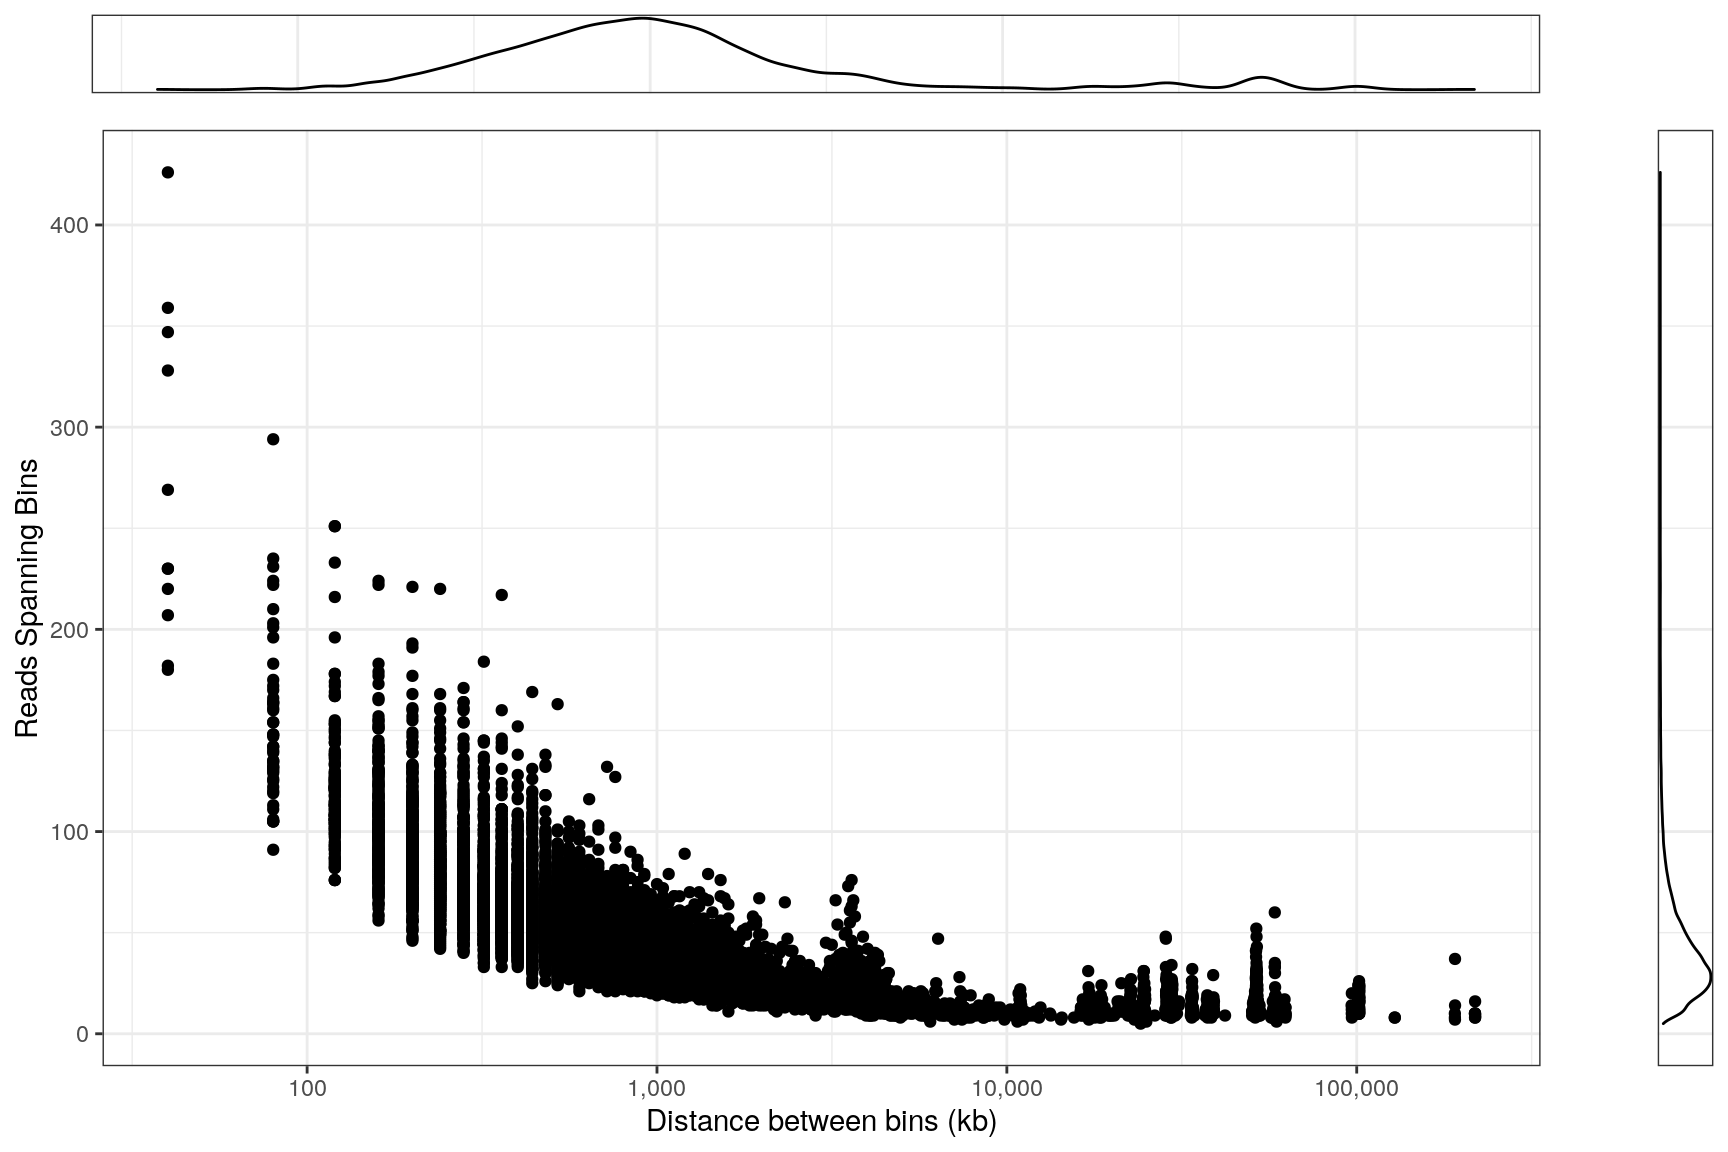
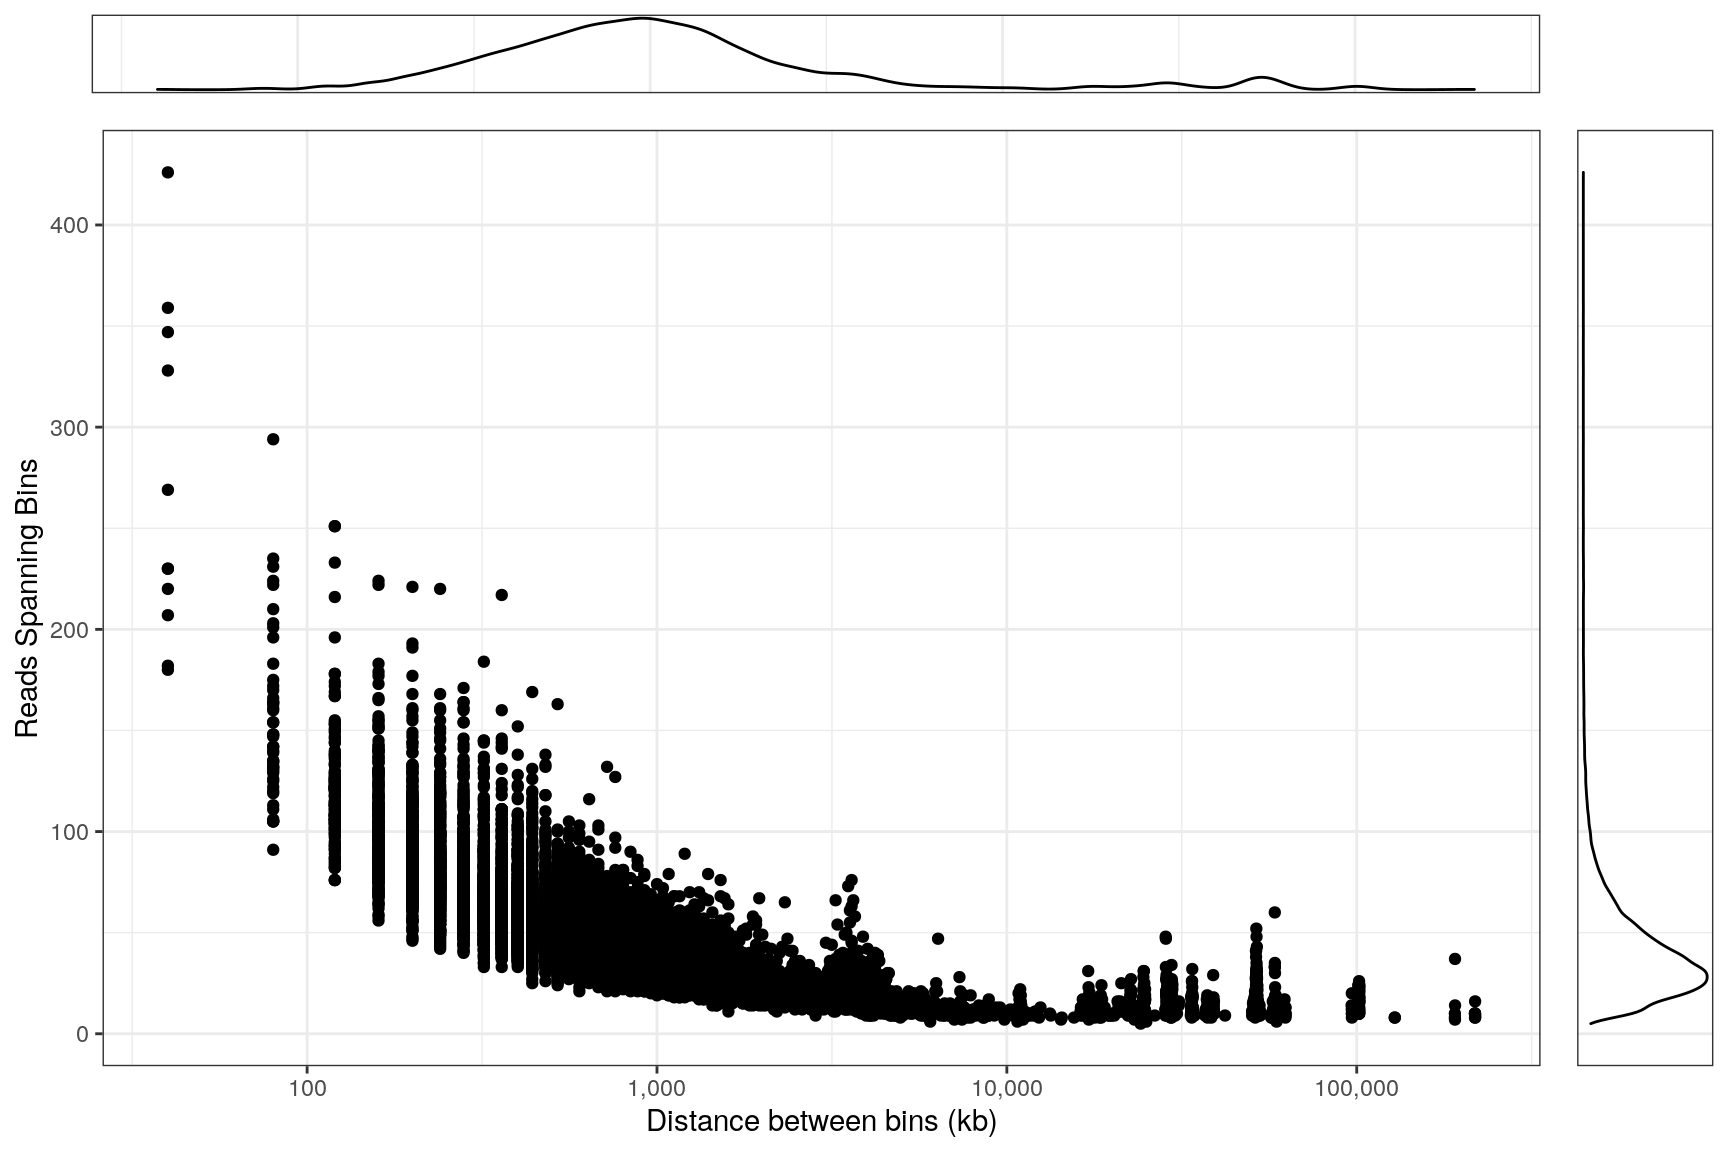
Build site.

Changed region(s): [[0.9062, 0.5938, 0.9688, 0.8125], [0.9062, 0.1562, 0.9375, 0.4688], [0.9375, 0.8125, 1.0, 0.9062]]

diff --git a/docs/interactions_setup.html b/docs/interactions_setup.html
@@ -545,16 +545,16 @@ This reproducible <a href="http://rmarkdown.rstudio.com">R Markdown</a> analysis
 <div class="panel panel-default">
 <div class="panel-heading">
 <p class="panel-title">
-<a data-toggle="collapse" data-parent="#workflowr-checks" href="#strongRepositoryversionstrongahrefhttpsgithubcomDRMCRLENCODET47DHiCENCSR549MGQtree0c56e131cc7b3e3607a5f03d7d78ff4b33a6b7aetargetblank0c56e13a"> <span class="glyphicon glyphicon-ok text-success" aria-hidden="true"></span> <strong>Repository version:</strong> <a href="https://github.com/DRMCRL/ENCODE_T47D_HiC_ENCSR549MGQ/tree/0c56e131cc7b3e3607a5f03d7d78ff4b33a6b7ae" target="_blank">0c56e13</a> </a>
+<a data-toggle="collapse" data-parent="#workflowr-checks" href="#strongRepositoryversionstrongahrefhttpsgithubcomDRMCRLENCODET47DHiCENCSR549MGQtree3a30d29063c4a21f7cc84a441f0e458369fae1c7targetblank3a30d29a"> <span class="glyphicon glyphicon-ok text-success" aria-hidden="true"></span> <strong>Repository version:</strong> <a href="https://github.com/DRMCRL/ENCODE_T47D_HiC_ENCSR549MGQ/tree/3a30d29063c4a21f7cc84a441f0e458369fae1c7" target="_blank">3a30d29</a> </a>
 </p>
 </div>
[2 lines of base64/hex data omitted]
 <div class="panel-body">
 <p>
 Great! You are using Git for version control. Tracking code development and connecting the code version to the results is critical for reproducibility.
 </p>
 <p>
-The results in this page were generated with repository version <a href="https://github.com/DRMCRL/ENCODE_T47D_HiC_ENCSR549MGQ/tree/0c56e131cc7b3e3607a5f03d7d78ff4b33a6b7ae" target="_blank">0c56e13</a>. See the <em>Past versions</em> tab to see a history of the changes made to the R Markdown and HTML files.
+The results in this page were generated with repository version <a href="https://github.com/DRMCRL/ENCODE_T47D_HiC_ENCSR549MGQ/tree/3a30d29063c4a21f7cc84a441f0e458369fae1c7" target="_blank">3a30d29</a>. See the <em>Past versions</em> tab to see a history of the changes made to the R Markdown and HTML files.
 </p>
 <p>
 Note that you need to be careful to ensure that all relevant files for the analysis have been committed to Git prior to generating the results (you can use <code>wflow_publish</code> or <code>wflow_git_commit</code>). workflowr only checks the R Markdown file, but you know if there are other scripts or data files that it depends on. Below is the status of the Git repository when the results were generated:
@@ -564,11 +564,13 @@ Ignored files:
     Ignored:    .Rhistory
     Ignored:    .Rproj.user/
     Ignored:    .snakemake/
-    Ignored:    analysis/figure/
     Ignored:    data/external/H3K27AC/bam/
     Ignored:    data/external/H3K27AC/bigwig/
     Ignored:    data/external/gencode.v33lift37.annotation.gtf.gz
     Ignored:    output/MaxHiC/
+
+Unstaged changes:
+    Modified:   output/gi_20000.rds
 
 </code></pre>
 <p>
@@ -607,6 +609,40 @@ Message
 </tr>
 </thead>
 <tbody>
+<tr>
+<td>
+Rmd
+</td>
+<td>
+<a href="https://github.com/DRMCRL/ENCODE_T47D_HiC_ENCSR549MGQ/blob/3a30d29063c4a21f7cc84a441f0e458369fae1c7/analysis/interactions_setup.Rmd" target="_blank">3a30d29</a>
+</td>
+<td>
+Steve Ped
+</td>
+<td>
+2020-11-23
+</td>
+<td>
+Corrected plot margins
+</td>
+</tr>
+<tr>
+<td>
+html
+</td>
+<td>
+<a href="https://rawcdn.githack.com/DRMCRL/ENCODE_T47D_HiC_ENCSR549MGQ/b0e47c8fce748fb4d36f91eb0b99a0ff620f950f/docs/interactions_setup.html" target="_blank">b0e47c8</a>
+</td>
+<td>
+Steve Ped
+</td>
+<td>
+2020-11-23
+</td>
+<td>
+Build site.
+</td>
+</tr>
 <tr>
 <td>
 Rmd
@@ -1038,7 +1074,7 @@ c &lt;- mcols(gi) %&gt;%
   )
 plot_grid(
   plot_grid(ngsReports:::.emptyPlot(&quot;&quot;), c, ngsReports:::.emptyPlot(&quot;&quot;), rel_widths = c(0.02, 0.896, 0.102), nrow = 1),
-  plot_grid(a, b, rel_widths = c(0.9, 0.1), align = &quot;hv&quot;),
+  plot_grid(a, b, rel_widths = c(0.9, 0.1), align = &quot;h&quot;),
   rel_heights = c(0.1, 0.9), nrow = 2, align = &quot;v&quot;, axis = &quot;r&quot;
 )</code></pre>
 <div class="figure" style="text-align: center">
@@ -1046,6 +1082,43 @@ plot_grid(
 <p class="caption">
 <em>Relationship between counts and distance using 10kb bins</em>
 </p>
+</div>
+<p>
+<button type="button" class="btn btn-default btn-xs btn-workflowr btn-workflowr-fig" data-toggle="collapse" data-target="#fig-plotIntDist10-1">
+Past versions of plotIntDist10-1.png
+</button>
+</p>
+<div id="fig-plotIntDist10-1" class="collapse">
+<div class="table-responsive">
+<table class="table table-condensed table-hover">
+<thead>
+<tr>
+<th>
+Version
+</th>
+<th>
+Author
+</th>
+<th>
+Date
+</th>
+</tr>
+</thead>
+<tbody>
+<tr>
+<td>
+<a href="https://github.com/DRMCRL/ENCODE_T47D_HiC_ENCSR549MGQ/blob/b0e47c8fce748fb4d36f91eb0b99a0ff620f950f/docs/figure/interactions_setup.Rmd/plotIntDist10-1.png" target="_blank">b0e47c8</a>
+</td>
+<td>
+Steve Ped
+</td>
+<td>
+2020-11-23
+</td>
+</tr>
+</tbody>
+</table>
+</div>
 </div>
 <pre class="r"><code>rm(gi)
 rm(cis_int)
@@ -1148,6 +1221,17 @@ Date
 <tbody>
 <tr>
 <td>
+<a href="https://github.com/DRMCRL/ENCODE_T47D_HiC_ENCSR549MGQ/blob/b0e47c8fce748fb4d36f91eb0b99a0ff620f950f/docs/figure/interactions_setup.Rmd/plotInt20-1.png" target="_blank">b0e47c8</a>
+</td>
+<td>
+Steve Ped
+</td>
+<td>
+2020-11-23
+</td>
+</tr>
+<tr>
+<td>
 <a href="https://github.com/DRMCRL/ENCODE_T47D_HiC_ENCSR549MGQ/blob/fd53db7f45f0a19a31fb9e807f5edc95a18410c2/docs/figure/interactions_setup.Rmd/plotInt20-1.png" target="_blank">fd53db7</a>
 </td>
 <td>
@@ -1209,7 +1293,7 @@ c &lt;- mcols(gi) %&gt;%
   )
 plot_grid(
   plot_grid(ngsReports:::.emptyPlot(&quot;&quot;), c, ngsReports:::.emptyPlot(&quot;&quot;), rel_widths = c(0.02, 0.896, 0.102), nrow = 1),
-  plot_grid(a, b, rel_widths = c(0.9, 0.1), align = &quot;hv&quot;),
+  plot_grid(a, b, rel_widths = c(0.9, 0.1), align = &quot;h&quot;),
   rel_heights = c(0.1, 0.9), nrow = 2, align = &quot;v&quot;, axis = &quot;r&quot;
 )</code></pre>
 <div class="figure" style="text-align: center">
@@ -1217,6 +1301,43 @@ plot_grid(
 <p class="caption">
 <em>Relationship between counts and distance using 20kb bins</em>
 </p>
+</div>
+<p>
+<button type="button" class="btn btn-default btn-xs btn-workflowr btn-workflowr-fig" data-toggle="collapse" data-target="#fig-plotIntDist20-1">
+Past versions of plotIntDist20-1.png
+</button>
+</p>
+<div id="fig-plotIntDist20-1" class="collapse">
+<div class="table-responsive">
+<table class="table table-condensed table-hover">
+<thead>
+<tr>
+<th>
+Version
+</th>
+<th>
+Author
+</th>
+<th>
+Date
+</th>
+</tr>
+</thead>
+<tbody>
+<tr>
+<td>
+<a href="https://github.com/DRMCRL/ENCODE_T47D_HiC_ENCSR549MGQ/blob/b0e47c8fce748fb4d36f91eb0b99a0ff620f950f/docs/figure/interactions_setup.Rmd/plotIntDist20-1.png" target="_blank">b0e47c8</a>
+</td>
+<td>
+Steve Ped
+</td>
+<td>
+2020-11-23
+</td>
+</tr>
+</tbody>
+</table>
+</div>
 </div>
 <pre class="r"><code>rm(gi)
 rm(cis_int)
@@ -1369,7 +1490,7 @@ c &lt;- mcols(gi) %&gt;%
   )
 plot_grid(
   plot_grid(ngsReports:::.emptyPlot(&quot;&quot;), c, ngsReports:::.emptyPlot(&quot;&quot;), rel_widths = c(0.02, 0.896, 0.102), nrow = 1),
-  plot_grid(a, b, rel_widths = c(0.9, 0.1), align = &quot;hv&quot;),
+  plot_grid(a, b, rel_widths = c(0.9, 0.1), align = &quot;h&quot;),
   rel_heights = c(0.1, 0.9), nrow = 2, align = &quot;v&quot;, axis = &quot;r&quot;
 )</code></pre>
 <div class="figure" style="text-align: center">
@@ -1377,6 +1498,43 @@ plot_grid(
 <p class="caption">
 <em>Relationship between counts and distance using 40kb bins</em>
 </p>
+</div>
+<p>
+<button type="button" class="btn btn-default btn-xs btn-workflowr btn-workflowr-fig" data-toggle="collapse" data-target="#fig-plotIntDist40-1">
+Past versions of plotIntDist40-1.png
+</button>
+</p>
+<div id="fig-plotIntDist40-1" class="collapse">
+<div class="table-responsive">
+<table class="table table-condensed table-hover">
+<thead>
+<tr>
+<th>
+Version
+</th>
+<th>
+Author
+</th>
+<th>
+Date
+</th>
+</tr>
+</thead>
+<tbody>
+<tr>
+<td>
+<a href="https://github.com/DRMCRL/ENCODE_T47D_HiC_ENCSR549MGQ/blob/b0e47c8fce748fb4d36f91eb0b99a0ff620f950f/docs/figure/interactions_setup.Rmd/plotIntDist40-1.png" target="_blank">b0e47c8</a>
+</td>
+<td>
+Steve Ped
+</td>
+<td>
+2020-11-23
+</td>
+</tr>
+</tbody>
+</table>
+</div>
 </div>
 <pre class="r"><code>rm(gi)
 rm(cis_int)
